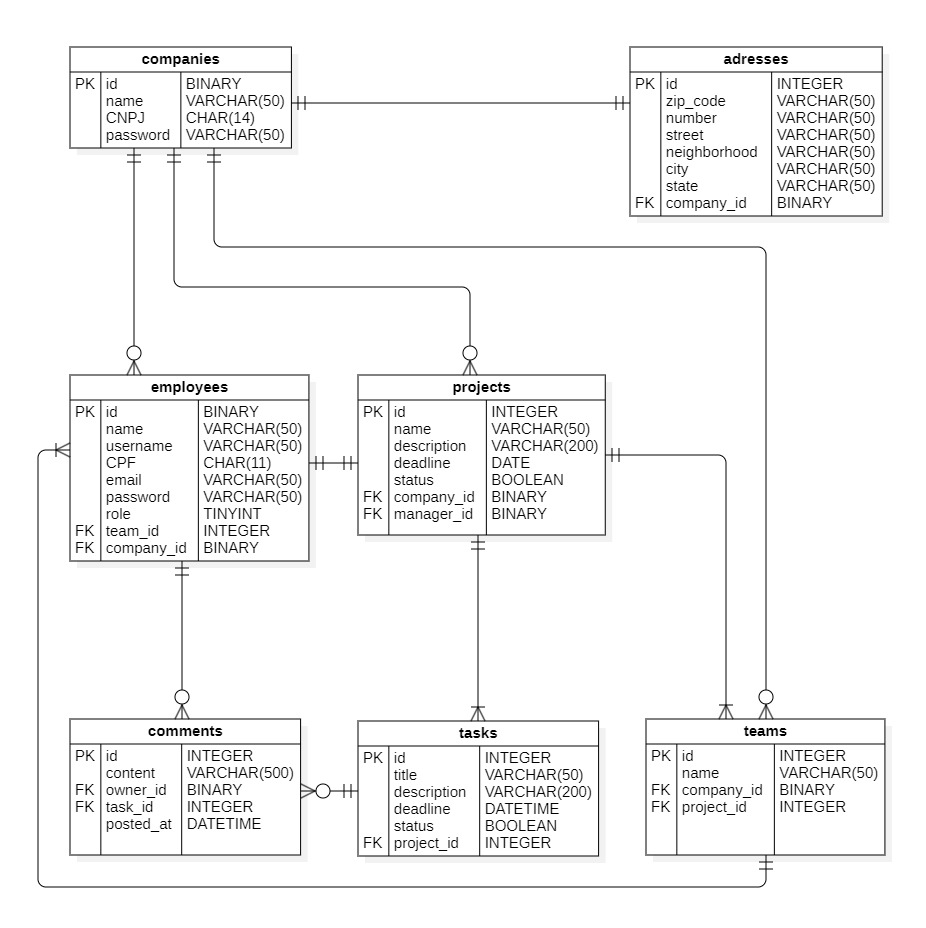
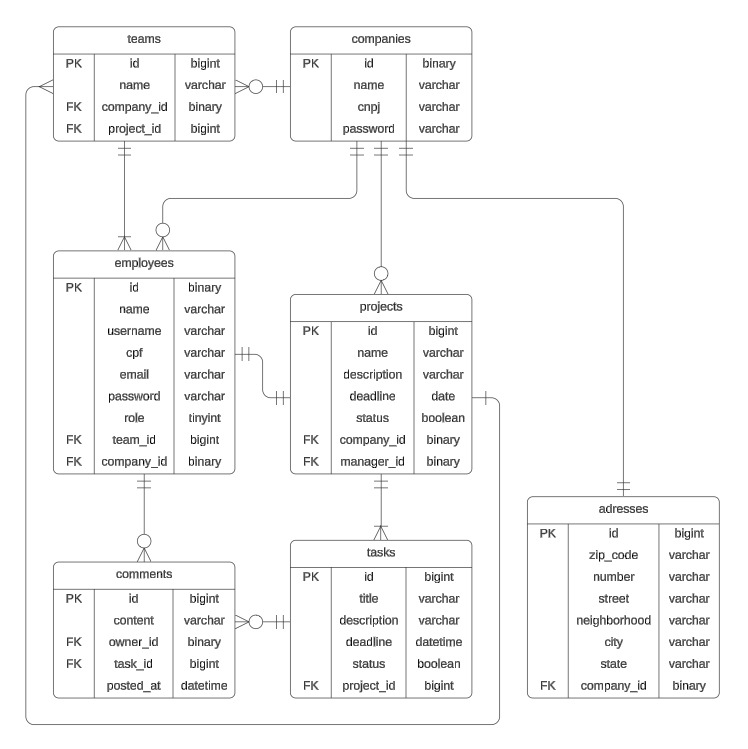
Project Structure
Construindo a arquitetura básica do projeto.

Changed region(s): [[0.0307, 0.0307, 0.984, 0.9826]]

diff --git a/OfficeAPI/src/main/java/com/office/api/configuration/SecurityConfiguration.java b/OfficeAPI/src/main/java/com/office/api/configuration/SecurityConfiguration.java
@@ -1,0 +1,41 @@
+package com.office.api.configuration;
+
+import org.springframework.beans.factory.annotation.Value;
+import org.springframework.context.annotation.Bean;
+import org.springframework.security.config.Customizer;
+import org.springframework.security.config.annotation.method.configuration.EnableMethodSecurity;
+import org.springframework.security.config.annotation.web.builders.HttpSecurity;
+import org.springframework.security.config.annotation.web.configuration.EnableWebSecurity;
+import org.springframework.security.config.annotation.web.configurers.AbstractHttpConfigurer;
+import org.springframework.security.config.http.SessionCreationPolicy;
+import org.springframework.security.crypto.bcrypt.BCryptPasswordEncoder;
+import org.springframework.security.crypto.password.PasswordEncoder;
+import org.springframework.security.web.SecurityFilterChain;
+
+import java.security.interfaces.RSAPrivateKey;
+import java.security.interfaces.RSAPublicKey;
+
+@EnableWebSecurity
+@EnableMethodSecurity
+public class SecurityConfiguration {
+    @Value("${jwt.public.key}")
+    private RSAPublicKey publicKey;
+    @Value("${jwt.private.key}")
+    private RSAPrivateKey privateKey;
+
+    @Bean
+    public SecurityFilterChain securityFilterChain(HttpSecurity http) throws Exception {
+        return http
+                .csrf(AbstractHttpConfigurer::disable)
+                .sessionManagement(session -> session.sessionCreationPolicy(SessionCreationPolicy.STATELESS))
+                .oauth2ResourceServer(oauth2 -> oauth2.jwt(Customizer.withDefaults()))
+                .authorizeHttpRequests(
+                        auth -> auth
+                                .anyRequest().authenticated())
+                .build();
+    }
+    @Bean
+    public PasswordEncoder passwordEncoder() {
+        return new BCryptPasswordEncoder();
+    }
+}

diff --git a/OfficeAPI/src/main/java/com/office/api/controller/EmployeeController.java b/OfficeAPI/src/main/java/com/office/api/controller/EmployeeController.java
@@ -1,0 +1,15 @@
+package com.office.api.controller;
+
+import com.office.api.service.EmployeeService;
+import org.springframework.web.bind.annotation.RequestMapping;
+import org.springframework.web.bind.annotation.RestController;
+
+@RestController
+@RequestMapping("/employees")
+public class EmployeeController {
+    private final EmployeeService employeeService;
+
+    public EmployeeController(EmployeeService employeeService) {
+        this.employeeService = employeeService;
+    }
+}

diff --git a/OfficeAPI/src/main/java/com/office/api/controller/CompanyController.java b/OfficeAPI/src/main/java/com/office/api/controller/CompanyController.java
@@ -1,0 +1,15 @@
+package com.office.api.controller;
+
+import com.office.api.service.CompanyService;
+import org.springframework.web.bind.annotation.RequestMapping;
+import org.springframework.web.bind.annotation.RestController;
+
+@RestController
+@RequestMapping("/companies")
+public class CompanyController {
+    private final CompanyService companyService;
+
+    public CompanyController(CompanyService companyService) {
+        this.companyService = companyService;
+    }
+}

diff --git a/OfficeAPI/src/main/java/com/office/api/controller/AddressController.java b/OfficeAPI/src/main/java/com/office/api/controller/AddressController.java
@@ -1,0 +1,15 @@
+package com.office.api.controller;
+
+import com.office.api.service.AddressService;
+import org.springframework.web.bind.annotation.RequestMapping;
+import org.springframework.web.bind.annotation.RestController;
+
+@RestController
+@RequestMapping("/adresses")
+public class AddressController {
+    private final AddressService addressService;
+
+    public AddressController(AddressService addressService) {
+        this.addressService = addressService;
+    }
+}

diff --git a/OfficeAPI/src/main/java/com/office/api/controller/CommentController.java b/OfficeAPI/src/main/java/com/office/api/controller/CommentController.java
@@ -1,0 +1,15 @@
+package com.office.api.controller;
+
+import com.office.api.service.CommentService;
+import org.springframework.web.bind.annotation.RequestMapping;
+import org.springframework.web.bind.annotation.RestController;
+
+@RestController
+@RequestMapping("/comments")
+public class CommentController {
+    private final CommentService commentService;
+
+    public CommentController(CommentService commentService) {
+        this.commentService = commentService;
+    }
+}

diff --git a/OfficeAPI/src/main/java/com/office/api/controller/ProjectController.java b/OfficeAPI/src/main/java/com/office/api/controller/ProjectController.java
@@ -1,0 +1,15 @@
+package com.office.api.controller;
+
+import com.office.api.service.ProjectService;
+import org.springframework.web.bind.annotation.RequestMapping;
+import org.springframework.web.bind.annotation.RestController;
+
+@RestController
+@RequestMapping("/projects")
+public class ProjectController {
+    private final ProjectService projectService;
+
+    public ProjectController(ProjectService projectService) {
+        this.projectService = projectService;
+    }
+}

diff --git a/OfficeAPI/src/main/java/com/office/api/controller/TaskController.java b/OfficeAPI/src/main/java/com/office/api/controller/TaskController.java
@@ -1,0 +1,15 @@
+package com.office.api.controller;
+
+import com.office.api.service.TaskService;
+import org.springframework.web.bind.annotation.RequestMapping;
+import org.springframework.web.bind.annotation.RestController;
+
+@RestController
+@RequestMapping("/tasks")
+public class TaskController {
+    private final TaskService taskService;
+
+    public TaskController(TaskService taskService) {
+        this.taskService = taskService;
+    }
+}

diff --git a/OfficeAPI/src/main/java/com/office/api/controller/TeamController.java b/OfficeAPI/src/main/java/com/office/api/controller/TeamController.java
@@ -1,0 +1,15 @@
+package com.office.api.controller;
+
+import com.office.api.service.TeamService;
+import org.springframework.web.bind.annotation.RequestMapping;
+import org.springframework.web.bind.annotation.RestController;
+
+@RestController
+@RequestMapping("/teams")
+public class TeamController {
+    private final TeamService teamService;
+
+    public TeamController(TeamService teamService) {
+        this.teamService = teamService;
+    }
+}

diff --git a/OfficeAPI/src/main/java/com/office/api/service/EmployeeService.java b/OfficeAPI/src/main/java/com/office/api/service/EmployeeService.java
@@ -1,0 +1,13 @@
+package com.office.api.service;
+
+import com.office.api.repository.EmployeeRepository;
+import org.springframework.stereotype.Service;
+
+@Service
+public class EmployeeService {
+    private final EmployeeRepository employeeRepository;
+
+    public EmployeeService(EmployeeRepository employeeRepository) {
+        this.employeeRepository = employeeRepository;
+    }
+}

diff --git a/OfficeAPI/src/main/java/com/office/api/service/AddressService.java b/OfficeAPI/src/main/java/com/office/api/service/AddressService.java
@@ -1,0 +1,13 @@
+package com.office.api.service;
+
+import com.office.api.repository.AddressRepository;
+import org.springframework.stereotype.Service;
+
+@Service
+public class AddressService {
+    private final AddressRepository addressRepository;
+
+    public AddressService(AddressRepository addressRepository) {
+        this.addressRepository = addressRepository;
+    }
+}

diff --git a/OfficeAPI/src/main/java/com/office/api/service/CommentService.java b/OfficeAPI/src/main/java/com/office/api/service/CommentService.java
@@ -1,0 +1,13 @@
+package com.office.api.service;
+
+import com.office.api.repository.CommentRepository;
+import org.springframework.stereotype.Service;
+
+@Service
+public class CommentService {
+    private final CommentRepository commentRepository;
+
+    public CommentService(CommentRepository commentRepository) {
+        this.commentRepository = commentRepository;
+    }
+}

diff --git a/OfficeAPI/src/main/java/com/office/api/service/CompanyService.java b/OfficeAPI/src/main/java/com/office/api/service/CompanyService.java
@@ -1,0 +1,13 @@
+package com.office.api.service;
+
+import com.office.api.repository.CompanyRepository;
+import org.springframework.stereotype.Service;
+
+@Service
+public class CompanyService {
+    private final CompanyRepository companyRepository;
+
+    public CompanyService(CompanyRepository companyRepository) {
+        this.companyRepository = companyRepository;
+    }
+}
